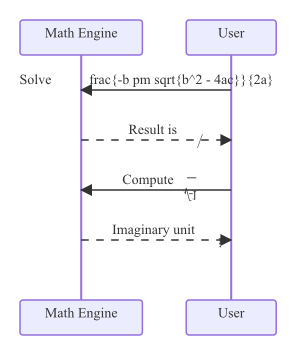
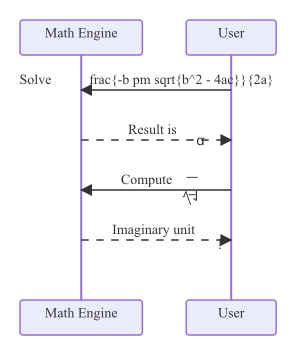
fix(math): wrap bare expressions in $...$ for math mode, fix Greek letter rendering
go-latex/mtex only resolves Greek letters and operators when the parser
is in math mode. Bare expressions like \alpha were parsed in text mode
and fell back to the backslash glyph. Wrapping in $...$ activates math
mode so \alpha, \pi, \pm, \times etc. render correctly using the
Noto Sans Math font.

Also switch from lm.Fonts() to MathFonts() using Noto Sans Math, and
regenerate math example SVGs/PNGs with correct glyphs.

diff --git a/pkg/renderer/math/font.go b/pkg/renderer/math/font.go
@@ -1,0 +1,133 @@
+package math
+
+import (
+	"archive/zip"
+	"fmt"
+	"io"
+	"net/http"
+	"os"
+	"path/filepath"
+	"sync"
+
+	"github.com/go-latex/latex/font/ttf"
+	"golang.org/x/image/font/sfnt"
+)
+
+const (
+	notoMathURL = "https://github.com/notofonts/math/releases/download/NotoSansMath-v3.000/NotoSansMath-v3.000.zip"
+	notoMathZip = "NotoSansMath-v3.000.zip"
+	notoMathTTF = "NotoSansMath/full/ttf/NotoSansMath-Regular.ttf"
+)
+
+var (
+	mathFontsOnce sync.Once
+	mathFonts     *ttf.Fonts
+	mathFontsErr  error
+)
+
+// MathFonts returns a *ttf.Fonts populated with Noto Sans Math.
+// On the first call it downloads the font from the Noto fonts GitHub
+// release, caches it in the user's cache directory, and parses it.
+// Subsequent calls return the cached value.
+func MathFonts() (*ttf.Fonts, error) {
+	mathFontsOnce.Do(func() {
+		mathFonts, mathFontsErr = loadMathFonts()
+	})
+	return mathFonts, mathFontsErr
+}
+
+func loadMathFonts() (*ttf.Fonts, error) {
+	cacheDir, err := os.UserCacheDir()
+	if err != nil {
+		cacheDir = os.TempDir()
+	}
+	cacheDir = filepath.Join(cacheDir, "mmgo")
+	if err := os.MkdirAll(cacheDir, 0755); err != nil {
+		return nil, fmt.Errorf("math font: create cache dir: %w", err)
+	}
+
+	fontPath := filepath.Join(cacheDir, "NotoSansMath-Regular.ttf")
+
+	if _, err := os.Stat(fontPath); os.IsNotExist(err) {
+		if err := downloadAndExtract(cacheDir); err != nil {
+			return nil, fmt.Errorf("math font: download: %w", err)
+		}
+	}
+
+	data, err := os.ReadFile(fontPath)
+	if err != nil {
+		return nil, fmt.Errorf("math font: read: %w", err)
+	}
+
+	ft, err := sfnt.Parse(data)
+	if err != nil {
+		return nil, fmt.Errorf("math font: parse: %w", err)
+	}
+
+	// Noto Sans Math is a single font file; use it for all styles.
+	fonts := &ttf.Fonts{
+		Default: ft,
+		Rm:      ft,
+		It:      ft,
+		Bf:      ft,
+		BfIt:    ft,
+	}
+	return fonts, nil
+}
+
+func downloadAndExtract(cacheDir string) error {
+	zipPath := filepath.Join(cacheDir, notoMathZip)
+
+	// Download the zip.
+	resp, err := http.Get(notoMathURL)
+	if err != nil {
+		return fmt.Errorf("fetch %s: %w", notoMathURL, err)
+	}
+	defer resp.Body.Close()
+
+	if resp.StatusCode != http.StatusOK {
+		return fmt.Errorf("fetch %s: status %d", notoMathURL, resp.StatusCode)
+	}
+
+	f, err := os.Create(zipPath)
+	if err != nil {
+		return fmt.Errorf("create zip: %w", err)
+	}
+	if _, err := io.Copy(f, resp.Body); err != nil {
+		f.Close()
+		return fmt.Errorf("write zip: %w", err)
+	}
+	f.Close()
+
+	// Extract the TTF.
+	zr, err := zip.OpenReader(zipPath)
+	if err != nil {
+		return fmt.Errorf("open zip: %w", err)
+	}
+	defer zr.Close()
+
+	for _, zf := range zr.File {
+		if zf.Name != notoMathTTF {
+			continue
+		}
+		rc, err := zf.Open()
+		if err != nil {
+			return fmt.Errorf("open %s in zip: %w", zf.Name, err)
+		}
+		defer rc.Close()
+
+		outPath := filepath.Join(cacheDir, "NotoSansMath-Regular.ttf")
+		out, err := os.Create(outPath)
+		if err != nil {
+			return fmt.Errorf("create ttf: %w", err)
+		}
+		if _, err := io.Copy(out, rc); err != nil {
+			out.Close()
+			return fmt.Errorf("write ttf: %w", err)
+		}
+		out.Close()
+		return nil
+	}
+
+	return fmt.Errorf("font %s not found in zip", notoMathTTF)
+}

diff --git a/pkg/renderer/math/math_test.go b/pkg/renderer/math/math_test.go
@@ -39,11 +39,9 @@ func TestRenderFraction(t *testing.T) {
 }
 
 func TestRenderGreek(t *testing.T) {
-	// go-latex/mtex doesn't have Greek glyphs; it renders the backslash
-	// literally.  We let mtex attempt the render and rely on the caller
-	// (text.RenderMath) to fall back to plain text when the result is
-	// indistinguishable from the input.
-	svg, w, h, err := Render("\\alpha + \\beta", 14)
+	// go-latex/mtex requires math mode ($...$) to resolve Greek letters
+	// and operators.  Render automatically wraps bare expressions.
+	svg, w, h, err := Render(`\alpha + \beta`, 14)
 	if err != nil {
 		t.Fatalf("render: %v", err)
 	}
@@ -52,6 +50,11 @@ func TestRenderGreek(t *testing.T) {
 	}
 	if !strings.Contains(svg, "path") {
 		t.Error("expected path elements in output")
+	}
+	// In text mode the backslash glyph would be rendered; in math mode
+	// we should see distinct paths for alpha and beta.
+	if strings.Count(svg, "<path") < 2 {
+		t.Error("expected at least two distinct path elements for alpha and beta")
 	}
 }
 

diff --git a/pkg/renderer/math/math.go b/pkg/renderer/math/math.go
@@ -5,7 +5,6 @@ import (
 	"strings"
 
 	"github.com/go-latex/latex/drawtex"
-	"github.com/go-latex/latex/font/lm"
 	"github.com/go-latex/latex/mtex"
 	"golang.org/x/image/font/sfnt"
 	"golang.org/x/image/math/fixed"
@@ -21,7 +20,17 @@ func Render(expr string, fontSize float64) (svg string, w, h float64, err error)
 	if fontSize <= 0 {
 		fontSize = defaultFontSize
 	}
-	fonts := lm.Fonts()
+	// go-latex/mtex only resolves Greek letters and math operators
+	// when the parser is in math mode.  Bare expressions like \alpha
+	// are parsed in text mode and fall back to the backslash glyph.
+	// Wrapping in $...$ activates math mode for the whole expression.
+	if !strings.HasPrefix(expr, "$") {
+		expr = "$" + expr + "$"
+	}
+	fonts, err := MathFonts()
+	if err != nil {
+		return "", 0, 0, fmt.Errorf("math render: %w", err)
+	}
 	r := &svgRenderer{}
 	err = mtex.Render(r, expr, fontSize, defaultDPI, fonts)
 	if err != nil {
